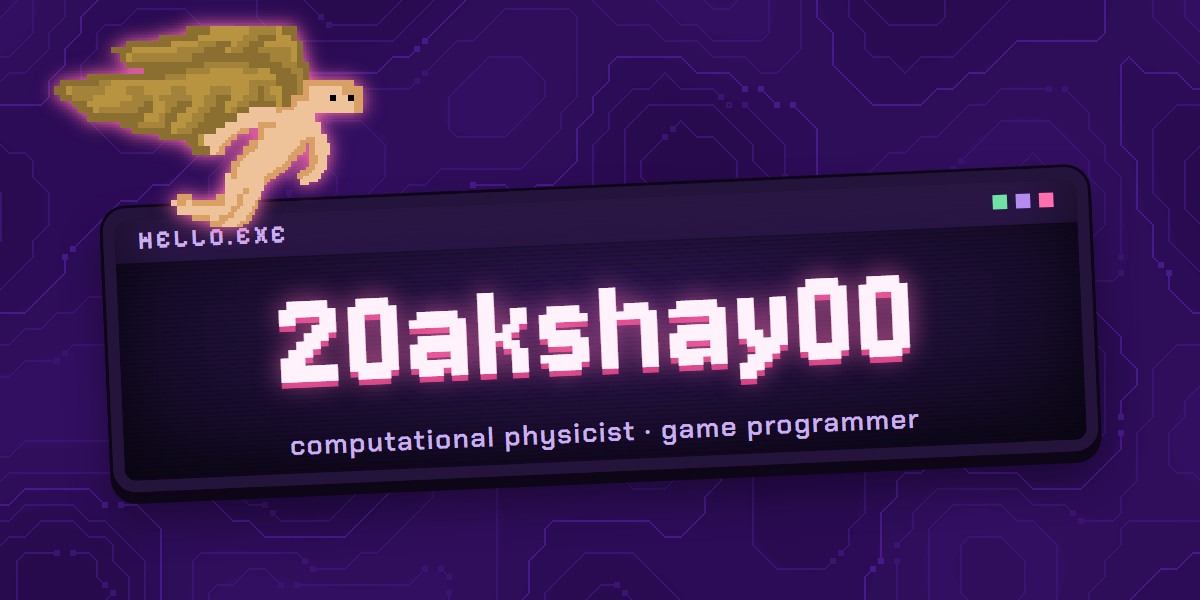
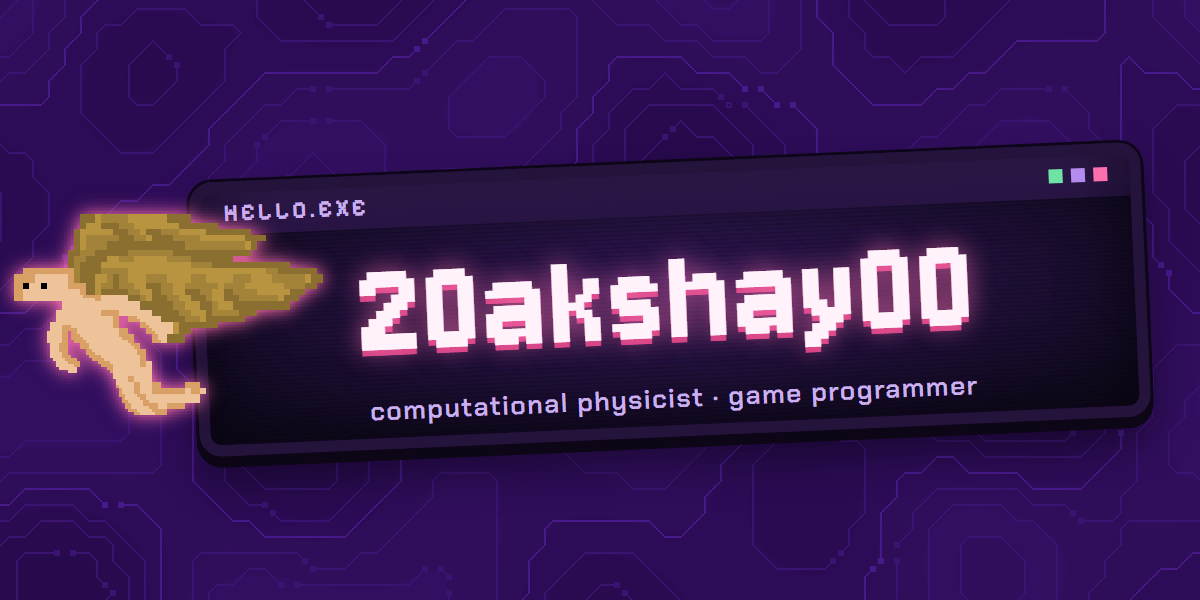
link card: the sign centred, the flyer flipped onto its left

diff --git a/art/card.html b/art/card.html
@@ -14,11 +14,11 @@ html, body { margin: 0; }
     background: #260a4b url(../upload/background.png) 50% 0 / 1280px; image-rendering: pixelated;
 }
 /* the sign is banner.html itself, scaled up as a page so its text stays sharp: its centre (490, 124)
-   lands at (600, 330) */
+   lands at (670, 300), centred top to bottom and a little right, to leave the flyer room */
 .sign { position: absolute; left: 0; top: 0; width: 960px; height: 400px; border: 0;
-    transform-origin: 0 0; transform: translate(-110px, 150px) scale(1.45); }
-/* the flyer at 1.5x its sticker (3x the pixel art, so its pixels stay square), facing right */
-.flyer { position: absolute; left: 30px; top: 2px; width: 357px; height: 249px; transform: scaleX(-1); }
+    transform-origin: 0 0; transform: translate(-16px, 126px) scale(1.4); }
+/* the flyer at 1.5x its sticker (3x the pixel art, so its pixels stay square), on the left */
+.flyer { position: absolute; left: -10px; top: 190px; width: 357px; height: 249px; }
 </style>
 </head>
 <body>
